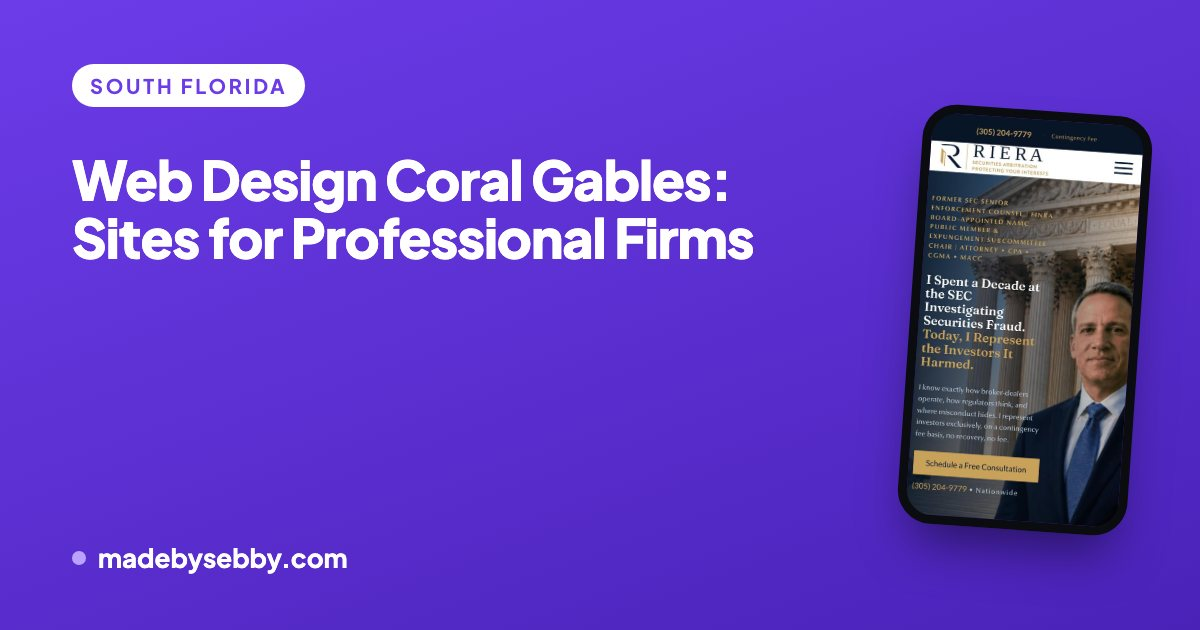
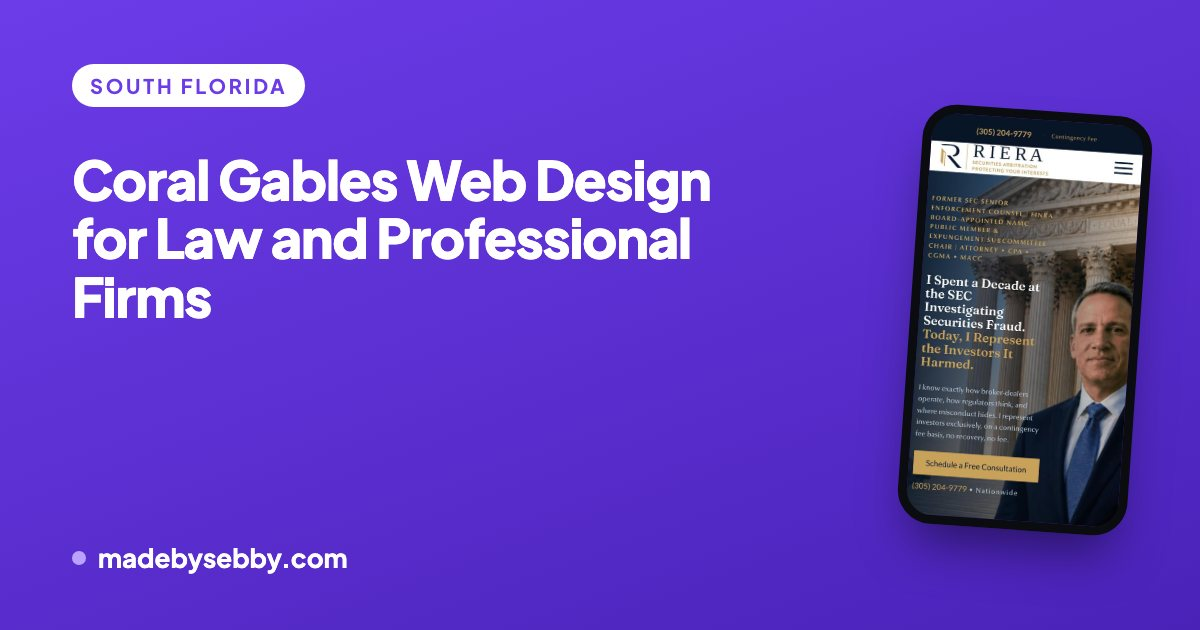
seo: lead two city titles with the exact phrase searchers type, both stuck at position 16
Search Console, 7 days to Nov 6: "paginas web en miami" got 17 impressions at
position 16.2 on the Spanish Miami page, and "coral gables web design" got 11
at 16.1 while our word order ("web design coral gables") sat at 34.6. Both are
one step from page one, so the title and description now open with the query
as written. H1s and body copy are unchanged.

Changed region(s): [[0.0617, 0.2413, 0.6475, 0.5127]]

diff --git a/web-design-coral-gables.html b/web-design-coral-gables.html
@@ -6,10 +6,10 @@
 <script>window.dataLayer=window.dataLayer||[];function gtag(){dataLayer.push(arguments);}gtag('js',new Date());gtag('config','G-DV4L5CZRML');</script>
 <meta charset="UTF-8">
 <meta name="viewport" content="width=device-width, initial-scale=1.0">
-<title>Web Design Coral Gables: Sites for Professional Firms</title>
+<title>Coral Gables Web Design for Law and Professional Firms</title>
 <meta name="robots" content="index, follow, max-snippet:-1, max-image-preview:large, max-video-preview:-1">
 <meta name="author" content="Sebby. Made by Sebby">
-<meta name="description" content="Web design in Coral Gables for law, accounting and consulting firms. Bilingual sites held to the City Beautiful's standard. Free 15-minute call.">
+<meta name="description" content="Coral Gables web design for law, accounting and consulting firms. Bilingual sites held to the City Beautiful's standard. Free 15-minute call.">
 <link rel="preload" as="image" href="/assets/logo/sebby-nav.svg">
 <link rel="preconnect" href="https://fonts.googleapis.com">
 <link rel="preconnect" href="https://fonts.gstatic.com" crossorigin>
@@ -415,16 +415,16 @@ footer{border-top:1px solid var(--line);padding:56px 0 0;margin-top:0}
 <link rel="manifest" href="/site.webmanifest">
 <meta property="og:type" content="website">
 <meta property="og:site_name" content="Made by Sebby">
-<meta property="og:title" content="Web Design Coral Gables: Sites for Professional Firms">
-<meta property="og:description" content="Web design in Coral Gables for law, accounting and consulting firms. Bilingual sites held to the City Beautiful's standard. Free 15-minute call.">
+<meta property="og:title" content="Coral Gables Web Design for Law and Professional Firms">
+<meta property="og:description" content="Coral Gables web design for law, accounting and consulting firms. Bilingual sites held to the City Beautiful's standard. Free 15-minute call.">
 <meta property="og:locale" content="en_US">
 <meta property="og:url" content="https://madebysebby.com/web-design-coral-gables.html">
 <meta property="og:image" content="https://madebysebby.com/assets/og/en/web-design-coral-gables.jpg">
 <meta property="og:image:width" content="1200">
 <meta property="og:image:height" content="630">
 <meta name="twitter:card" content="summary_large_image">
-<meta name="twitter:title" content="Web Design Coral Gables: Sites for Professional Firms">
-<meta name="twitter:description" content="Web design in Coral Gables for law, accounting and consulting firms. Bilingual sites held to the City Beautiful's standard. Free 15-minute call.">
+<meta name="twitter:title" content="Coral Gables Web Design for Law and Professional Firms">
+<meta name="twitter:description" content="Coral Gables web design for law, accounting and consulting firms. Bilingual sites held to the City Beautiful's standard. Free 15-minute call.">
 <meta name="twitter:image" content="https://madebysebby.com/assets/og/en/web-design-coral-gables.jpg">
 <!-- seo:end -->
 <script type="application/ld+json">
@@ -440,7 +440,7 @@ footer{border-top:1px solid var(--line);padding:56px 0 0;margin-top:0}
     "width": 512,
     "height": 512
   },
-  "description": "Web design in Coral Gables for law, accounting and consulting firms. Bilingual sites held to the City Beautiful's standard. Free 15-minute call.",
+  "description": "Coral Gables web design for law, accounting and consulting firms. Bilingual sites held to the City Beautiful's standard. Free 15-minute call.",
   "email": "hello@madebysebby.com",
   "founder": {
     "@type": "Person",

diff --git a/src/web-design-coral-gables.html b/src/web-design-coral-gables.html
@@ -6,10 +6,10 @@
 <script>window.dataLayer=window.dataLayer||[];function gtag(){dataLayer.push(arguments);}gtag('js',new Date());gtag('config','G-DV4L5CZRML');</script>
 <meta charset="UTF-8">
 <meta name="viewport" content="width=device-width, initial-scale=1.0">
-<title>Web Design Coral Gables: Sites for Professional Firms</title>
+<title>Coral Gables Web Design for Law and Professional Firms</title>
 <meta name="robots" content="index, follow, max-snippet:-1, max-image-preview:large, max-video-preview:-1">
 <meta name="author" content="Sebby. Made by Sebby">
-<meta name="description" content="Web design in Coral Gables for law, accounting and consulting firms. Bilingual sites held to the City Beautiful's standard. Free 15-minute call.">
+<meta name="description" content="Coral Gables web design for law, accounting and consulting firms. Bilingual sites held to the City Beautiful's standard. Free 15-minute call.">
 <link rel="preload" as="image" href="assets/logo/sebby-nav.svg">
 <link rel="preconnect" href="https://fonts.googleapis.com">
 <link rel="preconnect" href="https://fonts.gstatic.com" crossorigin>
@@ -361,15 +361,15 @@
 <link rel="manifest" href="/site.webmanifest">
 <meta property="og:type" content="website">
 <meta property="og:site_name" content="Made by Sebby">
-<meta property="og:title" content="Web Design Coral Gables: Sites for Professional Firms">
-<meta property="og:description" content="Web design in Coral Gables for law, accounting and consulting firms. Bilingual sites held to the City Beautiful's standard. Free 15-minute call.">
+<meta property="og:title" content="Coral Gables Web Design for Law and Professional Firms">
+<meta property="og:description" content="Coral Gables web design for law, accounting and consulting firms. Bilingual sites held to the City Beautiful's standard. Free 15-minute call.">
 <meta property="og:url" content="https://madebysebby.com/web-design-coral-gables.html">
 <meta property="og:image" content="https://madebysebby.com/assets/og-image.jpg">
 <meta property="og:image:width" content="1200">
 <meta property="og:image:height" content="630">
 <meta name="twitter:card" content="summary_large_image">
-<meta name="twitter:title" content="Web Design Coral Gables: Sites for Professional Firms">
-<meta name="twitter:description" content="Web design in Coral Gables for law, accounting and consulting firms. Bilingual sites held to the City Beautiful's standard. Free 15-minute call.">
+<meta name="twitter:title" content="Coral Gables Web Design for Law and Professional Firms">
+<meta name="twitter:description" content="Coral Gables web design for law, accounting and consulting firms. Bilingual sites held to the City Beautiful's standard. Free 15-minute call.">
 <meta name="twitter:image" content="https://madebysebby.com/assets/og-image.jpg">
 <!-- seo:end -->
 <script type="application/ld+json">
@@ -380,7 +380,7 @@
   "url": "https://madebysebby.com/web-design-coral-gables.html",
   "image": "https://madebysebby.com/assets/og-image.jpg",
   "logo": "https://madebysebby.com/assets/icons/icon-512.png",
-  "description": "Web design in Coral Gables for law, accounting and consulting firms. Bilingual sites held to the City Beautiful's standard. Free 15-minute call.",
+  "description": "Coral Gables web design for law, accounting and consulting firms. Bilingual sites held to the City Beautiful's standard. Free 15-minute call.",
   "email": "hello@madebysebby.com",
   "founder": {
     "@type": "Person",

diff --git a/es/diseno-web-miami.html b/es/diseno-web-miami.html
@@ -6,10 +6,10 @@
 <script>window.dataLayer=window.dataLayer||[];function gtag(){dataLayer.push(arguments);}gtag('js',new Date());gtag('config','G-DV4L5CZRML');</script>
 <meta charset="UTF-8">
 <meta name="viewport" content="width=device-width, initial-scale=1.0">
-<title>Páginas Web y Diseño Web en Miami para Negocios</title>
+<title>Páginas Web en Miami y Diseño Web para Negocios</title>
 <meta name="robots" content="index, follow, max-snippet:-1, max-image-preview:large, max-video-preview:-1">
 <meta name="author" content="Sebby. Made by Sebby">
-<meta name="description" content="Páginas web y diseño web en Miami para pequeños negocios. Sitios bilingües que generan confianza y convierten visitantes. Consulta gratis.">
+<meta name="description" content="Páginas web en Miami para pequeños negocios, con diseño web a la medida. Sitios bilingües que generan confianza y convierten visitantes. Consulta gratis.">
 <link rel="preload" as="image" href="/assets/logo/sebby-nav.svg">
 <link rel="preconnect" href="https://fonts.googleapis.com">
 <link rel="preconnect" href="https://fonts.gstatic.com" crossorigin>
@@ -425,7 +425,7 @@ footer{border-top:1px solid var(--line);padding:56px 0 0;margin-top:0}
 <link rel="manifest" href="/site.webmanifest">
 <meta property="og:type" content="website">
 <meta property="og:site_name" content="Made by Sebby">
-<meta property="og:title" content="Páginas Web y Diseño Web en Miami para Negocios">
+<meta property="og:title" content="Páginas Web en Miami y Diseño Web para Negocios">
 <meta property="og:description" content="Diseño web en Miami para pequeños negocios, sitios personalizados que generan confianza y convierten visitantes. Bilingüe (español e inglés), pensado para el celular, con cuidado web continuo.">
 <meta property="og:locale" content="es_ES">
 <meta property="og:url" content="https://madebysebby.com/es/diseno-web-miami.html">
@@ -433,7 +433,7 @@ footer{border-top:1px solid var(--line);padding:56px 0 0;margin-top:0}
 <meta property="og:image:width" content="1200">
 <meta property="og:image:height" content="630">
 <meta name="twitter:card" content="summary_large_image">
-<meta name="twitter:title" content="Páginas Web y Diseño Web en Miami para Negocios">
+<meta name="twitter:title" content="Páginas Web en Miami y Diseño Web para Negocios">
 <meta name="twitter:description" content="Diseño web en Miami para pequeños negocios, sitios personalizados que generan confianza y convierten. Bilingüe y pensado para el celular.">
 <meta name="twitter:image" content="https://madebysebby.com/assets/og/es/web-design-miami.jpg">
 <!-- seo:end -->
@@ -450,7 +450,7 @@ footer{border-top:1px solid var(--line);padding:56px 0 0;margin-top:0}
     "width": 512,
     "height": 512
   },
-  "description": "Páginas web y diseño web en Miami para pequeños negocios. Sitios bilingües que generan confianza y convierten visitantes. Consulta gratis.",
+  "description": "Páginas web en Miami para pequeños negocios, con diseño web a la medida. Sitios bilingües que generan confianza y convierten visitantes. Consulta gratis.",
   "email": "hello@madebysebby.com",
   "founder": {
     "@type": "Person",

diff --git a/build.py b/build.py
@@ -249,11 +249,11 @@ PAGES = {
     "web-design-miami.html": dict(
         es="diseno-web-miami.html",
         meta=dict(
-            title="Páginas Web y Diseño Web en Miami para Negocios",
-            desc="Páginas web y diseño web en Miami para pequeños negocios. Sitios bilingües que generan confianza y convierten visitantes. Consulta gratis.",
-            og_title="Páginas Web y Diseño Web en Miami para Negocios",
+            title="Páginas Web en Miami y Diseño Web para Negocios",
+            desc="Páginas web en Miami para pequeños negocios, con diseño web a la medida. Sitios bilingües que generan confianza y convierten visitantes. Consulta gratis.",
+            og_title="Páginas Web en Miami y Diseño Web para Negocios",
             og_desc="Diseño web en Miami para pequeños negocios, sitios personalizados que generan confianza y convierten visitantes. Bilingüe (español e inglés), pensado para el celular, con cuidado web continuo.",
-            tw_title="Páginas Web y Diseño Web en Miami para Negocios",
+            tw_title="Páginas Web en Miami y Diseño Web para Negocios",
             tw_desc="Diseño web en Miami para pequeños negocios, sitios personalizados que generan confianza y convierten. Bilingüe y pensado para el celular.",
         ),
     ),
